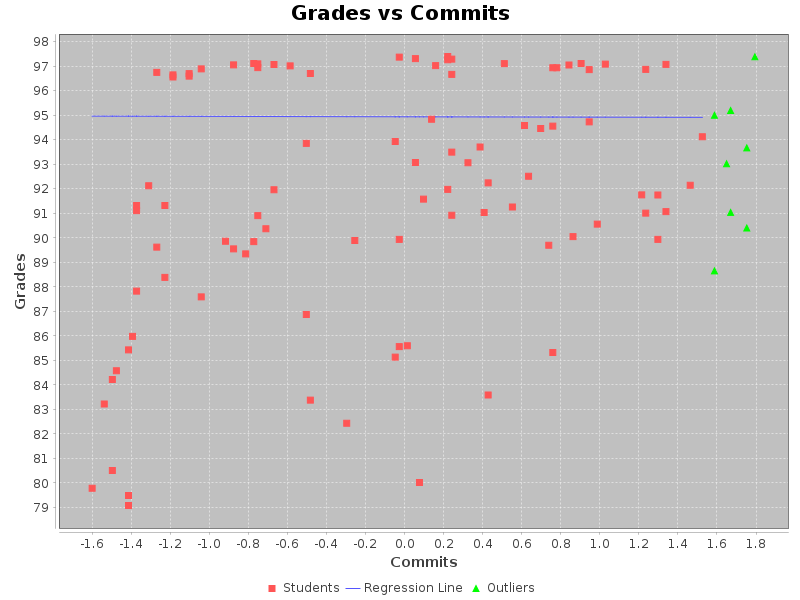
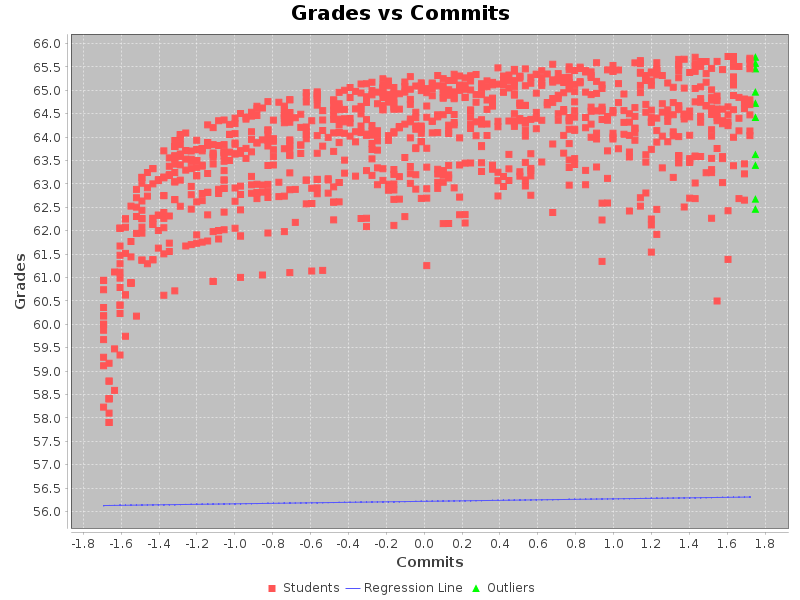
no multicollinearity, MSE

diff --git a/src/main/java/com/nighthawk/spring_portfolio/mvc/models/MultiVarAnalyticsGradeRegression.java b/src/main/java/com/nighthawk/spring_portfolio/mvc/models/MultiVarAnalyticsGradeRegression.java
@@ -2,9 +2,9 @@ package com.nighthawk.spring_portfolio.mvc.models;
 
 import java.awt.Color;
 import java.awt.image.BufferedImage;
+import java.util.ArrayList;
 import java.util.Arrays;
 import java.util.List;
-import java.util.ArrayList;
 
 import javax.imageio.ImageIO;
 
@@ -25,36 +25,47 @@ import org.springframework.stereotype.Component;
 @Component
 public class MultiVarAnalyticsGradeRegression {
 
-    public static void main(String[] args) {
-        // Create an instance of the class
-        MultiVarAnalyticsGradeRegression regression = new MultiVarAnalyticsGradeRegression();
-    
-        // Test with a sample number of students
-        int numStudents = 100;
-        RegressionResult result = regression.performRegression(numStudents);
-    
-        // Print the coefficients
-        System.out.println("Regression Coefficients: " + Arrays.toString(result.getCoefficients()));
-    
-        // Test cases with descriptors
-        double[][] testXData = {
-            {35, 8, 15, 3},  // Sample descriptor 1
-            {50, 12, 25, 5}, // Sample descriptor 2
-            {70, 18, 35, 7}  // Sample descriptor 3
-        };
-    
-        for (int i = 0; i < testXData.length; i++) {
-            double[] yData = MockDataGenerator.generateYData(testXData);
-            System.out.println("Test Case " + (i + 1) + ":");
-            System.out.println("X Data: " + Arrays.toString(testXData[i]));
-            System.out.println("Predicted Grade: " + yData[i]);
-            System.out.println("-------------------------");
+    public void performCrossValidation(int numStudents) {
+        double[][] xData = MockDataGenerator.generateXData(numStudents);
+        double[][] normalizedXData = normalize(xData);
+        double[] yData = MockDataGenerator.generateYData(xData);
+
+        // Split the data into training and testing sets (80-20 split)
+        int trainSize = (int) (0.8 * numStudents);
+        double[][] trainX = Arrays.copyOfRange(normalizedXData, 0, trainSize);
+        double[][] testX = Arrays.copyOfRange(normalizedXData, trainSize, numStudents);
+        double[] trainY = Arrays.copyOfRange(yData, 0, trainSize);
+        double[] testY = Arrays.copyOfRange(yData, trainSize, numStudents);
+
+        // Train the regression model on the training set
+        double[] coefficients = calculateCoefficients(trainX, trainY);
+
+        // Predict the grades for the testing set
+        double[] predictedY = new double[testY.length];
+        for (int i = 0; i < testX.length; i++) {
+            predictedY[i] = coefficients[0];  // bias term
+            for (int j = 0; j < testX[i].length; j++) {
+                predictedY[i] += coefficients[j + 1] * testX[i][j];
+            }
         }
-    
-        // Display the chart for the first metric (commits)
-        double[] xDataForChart = getColumn(result.getXData(), 0);
-        displayChart(xDataForChart, result.getYData(), result.getCoefficients(), "Commits");
+
+        // Calculate the Mean Squared Error (MSE) for the testing set
+        double mse = 0;
+        for (int i = 0; i < testY.length; i++) {
+            mse += Math.pow(testY[i] - predictedY[i], 2);
+        }
+        mse /= testY.length;
+
+        System.out.println("Mean Squared Error on Testing Set: " + mse);
     }
+
+    // Modify the main method to call performCrossValidation instead of performRegression
+    public static void main(String[] args) {
+        MultiVarAnalyticsGradeRegression regression = new MultiVarAnalyticsGradeRegression();
+        int numStudents = 1000;
+        regression.performCrossValidation(numStudents);
+    }
+
     
 
     public static double[][] normalize(double[][] xData) {
@@ -175,7 +186,7 @@ public class MultiVarAnalyticsGradeRegression {
     
         RealMatrix Xt = X.transpose();
         RealMatrix XtX = Xt.multiply(X);
-        double lambda = 0.01;
+        double lambda = 15;
         RealMatrix identity = MatrixUtils.createRealIdentityMatrix(m + 1);
         XtX = XtX.add(identity.scalarMultiply(lambda));
         RealMatrix XtXInverse = new LUDecomposition(XtX).getSolver().getInverse();

diff --git a/src/main/java/com/nighthawk/spring_portfolio/mvc/models/MockDataGenerator.java b/src/main/java/com/nighthawk/spring_portfolio/mvc/models/MockDataGenerator.java
@@ -14,9 +14,9 @@ public class MockDataGenerator {
     
         for (int i = 0; i < numStudents; i++) {
             int commits = 30 + random.nextInt(120);
-            int pullRequests = 10 + random.nextInt(commits/6);  // Stronger correlation
-            int issues = 5 + random.nextInt(commits/10);      // Moderate correlation
-            int reposContributed = 2 + random.nextInt(commits/60); // Moderate correlation
+            int pullRequests = 10 + random.nextInt(50);  // Generate independently
+            int issues = 5 + random.nextInt(40);         // Generate independently
+            int reposContributed = 2 + random.nextInt(20); // Generate independently           
 
     
             xData[i][0] = commits;
